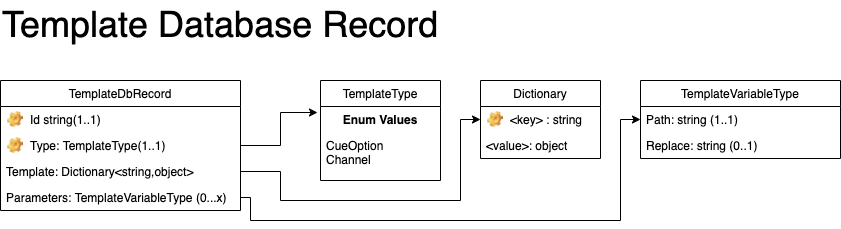
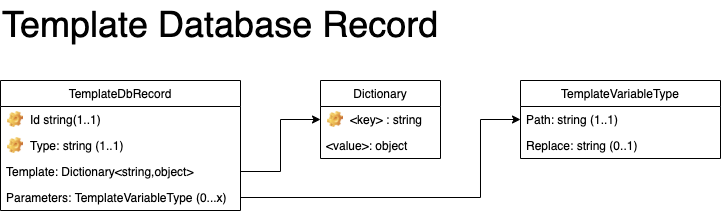
Updated TemplateDb Record to reflect new Signal template type.

diff --git a/docs/classes/database/template-db.md b/docs/classes/database/template-db.md
@@ -13,7 +13,7 @@ The Template Database Record stores all the various type of templates that can b
     "required": [ "_id", "_type" ],
     "properties": {
       "_id": { "type": "string" },
-      "_type": { "type": "string", "pattern": "^CueOption|Channel$" },
+      "_type": { "type": "string" },
       "template": { "type": "object" },
       "parameters" : { "type": "object",
         "additionalProperties": { "type": "array",
@@ -35,7 +35,7 @@ The Template Database Record stores all the various type of templates that can b
 |Field|Type|Required|Description
 |-----|----|--------|-----------
 |_id|String|Yes|The unique identifier (per type) for the template to be used.
-|_type|[TemplateType](../../core/templates.md#template-types)|Yes|The type of template this record represents.
+|_type|String|Yes|The type of template this record represents.
 |template|Json Object|Yes|The template itself.  See the [Templates](../../core/templates.md) page for a description of each type and the proper Json format.
 |parameters|List of [TemplateVariableType](#templatevariabletype)|No|List of parameters the can replace values within the template itself.
 
@@ -46,6 +46,93 @@ The Template Database Record stores all the various type of templates that can b
 |replace|String|No|The sub-string at the J-Path location to replace (instead of replacing the entire value).
 
 ### Examples
+
+#### **Sample Signal Template Database Record**
+
+A Signal template that can be used to query what actions to take on an Amazon EC2 instance.  The only fields that would change between alerts would be the Amazon Instnace Id and an optional override of the "notify" flag if you didn't want the status reported back to the original channels.
+
+````json
+{
+  "_id": "ec2-utilization",
+  "_type": "Signal",
+  "parameters": {
+    "instance": [
+      {
+        "path": "cues.ec2.description",
+        "replace": "INSTANCE_ID"
+      },
+      {
+        "path": "cues.ec2.resolver.config.instances[0]"
+      }
+    ],
+    "notify": [
+      {
+        "path": "cues.ec2.resolver.notify"
+      }
+    ]
+  },
+  "template": {
+    "name": "Utilization",
+    "description": "EC2 Utilization Montior",
+    "includeId": true,
+    "maxReplies": 1,
+    "cues": {
+      "ec2": {
+        "actions": [
+          {
+            "defaultValue": "stop",
+            "description": "Choose action to take against EC2 instances.",
+            "id": "action",
+            "name": "Perform Action",
+            "type": "choice",
+            "values": {
+              "hibernate": "Stop and Hibernate Instance",
+              "reboot": "Reboot Instance",
+              "stop": "Stop Instance",
+              "terminate": "Terminate Instance"
+            }
+          },
+          {
+            "defaultValue": "ignore",
+            "description": "Ignore this alert.",
+            "name": "Ignore Alert",
+            "type": "button"
+          },
+          {
+            "defaultValue": "disable",
+            "description": "Disable this alert.",
+            "name": "Disable Alert",
+            "type": "button"
+          }
+        ],
+        "defaultAction": "Perform Action",
+        "description": "Server [INSTANCE_ID] has been running for 7 days.  Would you like to take action against it?",
+        "inputs": [
+          {
+            "defaultValue": "Default Comment Value Here",
+            "description": "Choose action to take against EC2 instances.",
+            "id": "comment",
+            "name": "Enter Comment",
+            "type": "text"
+          }
+        ],
+        "name": "EC2 Usage",
+        "resolver": {
+          "config": {
+            "instances": [
+              "i-888888888888"
+            ]
+          },
+          "name": "Echo",
+          "notify": true
+        }
+      }
+    },
+    "defaultCue": "ec2-template",
+    "defaultCueTimeout": 4320
+  }
+}
+````
 
 #### **Sample CueOption Template Database Record**
 
@@ -81,7 +168,7 @@ A Microsoft Teams Channel template that contains the "reply to" url in the confi
 ````json
 {
   "_id": "teams",
-  "_type": "Channel",
+  "_type": "ChannelDbType",
   "parameters": {
     "channelName": [
       {
